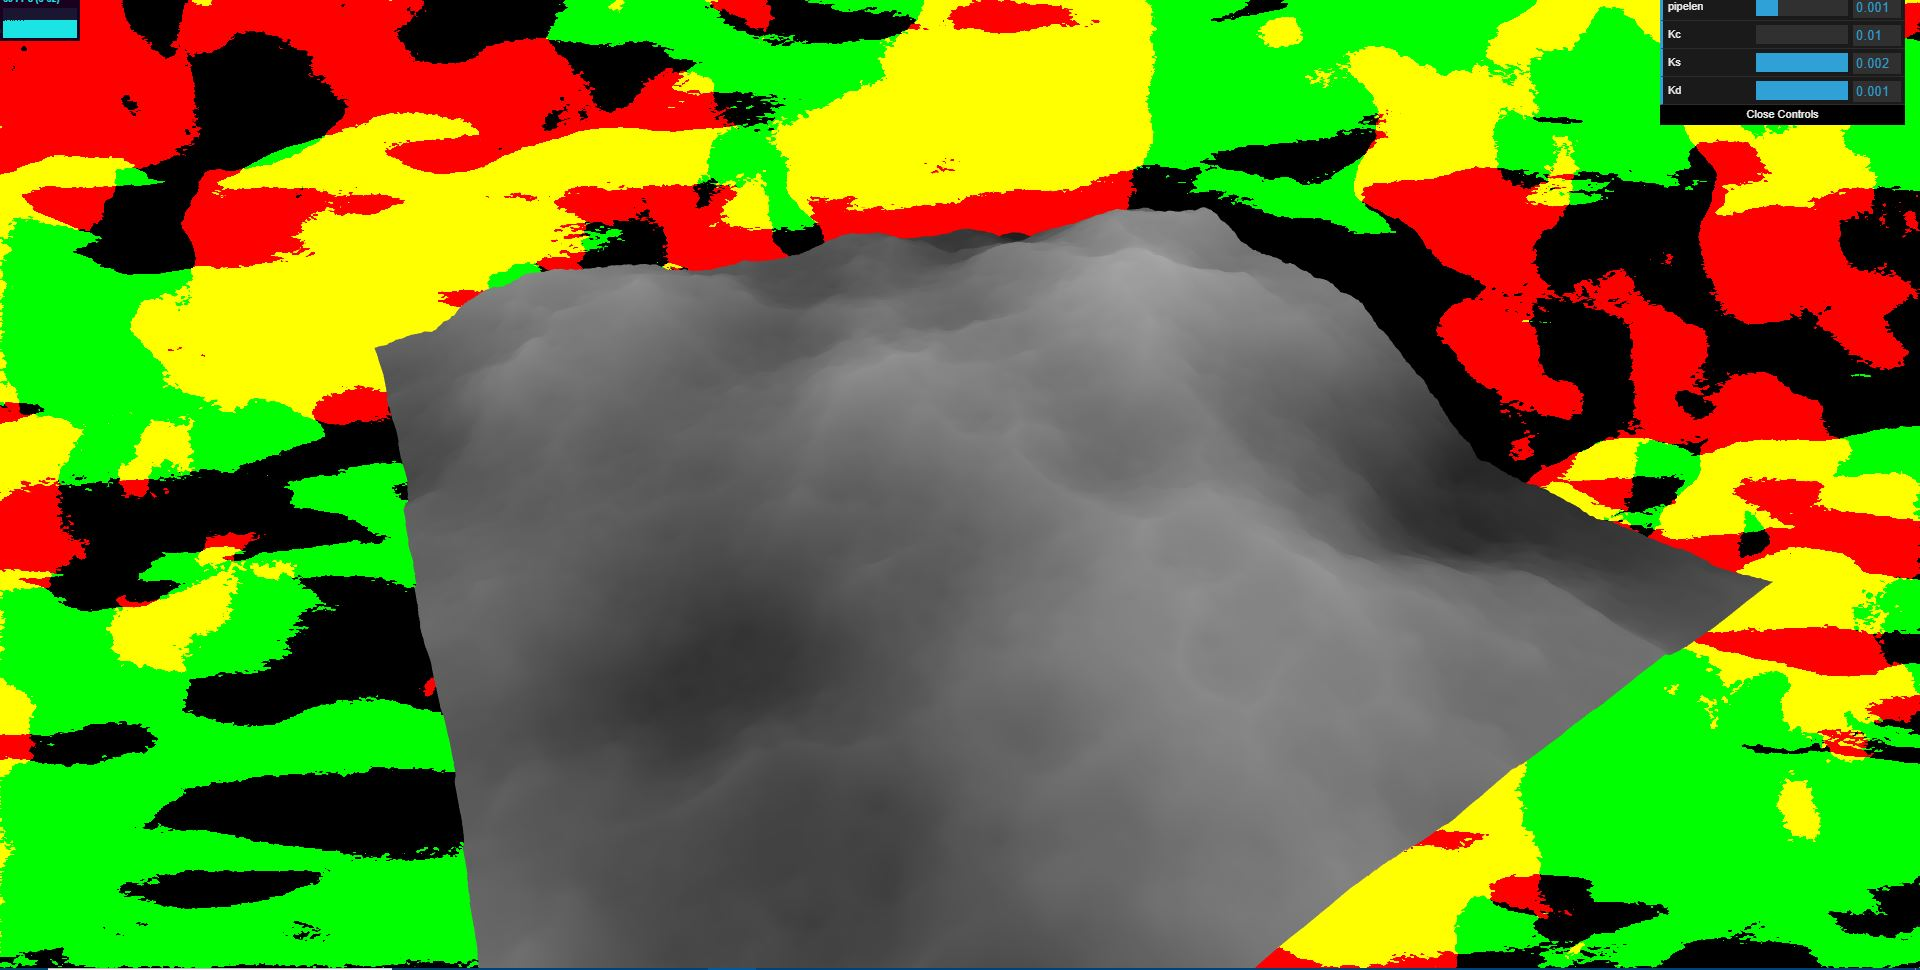
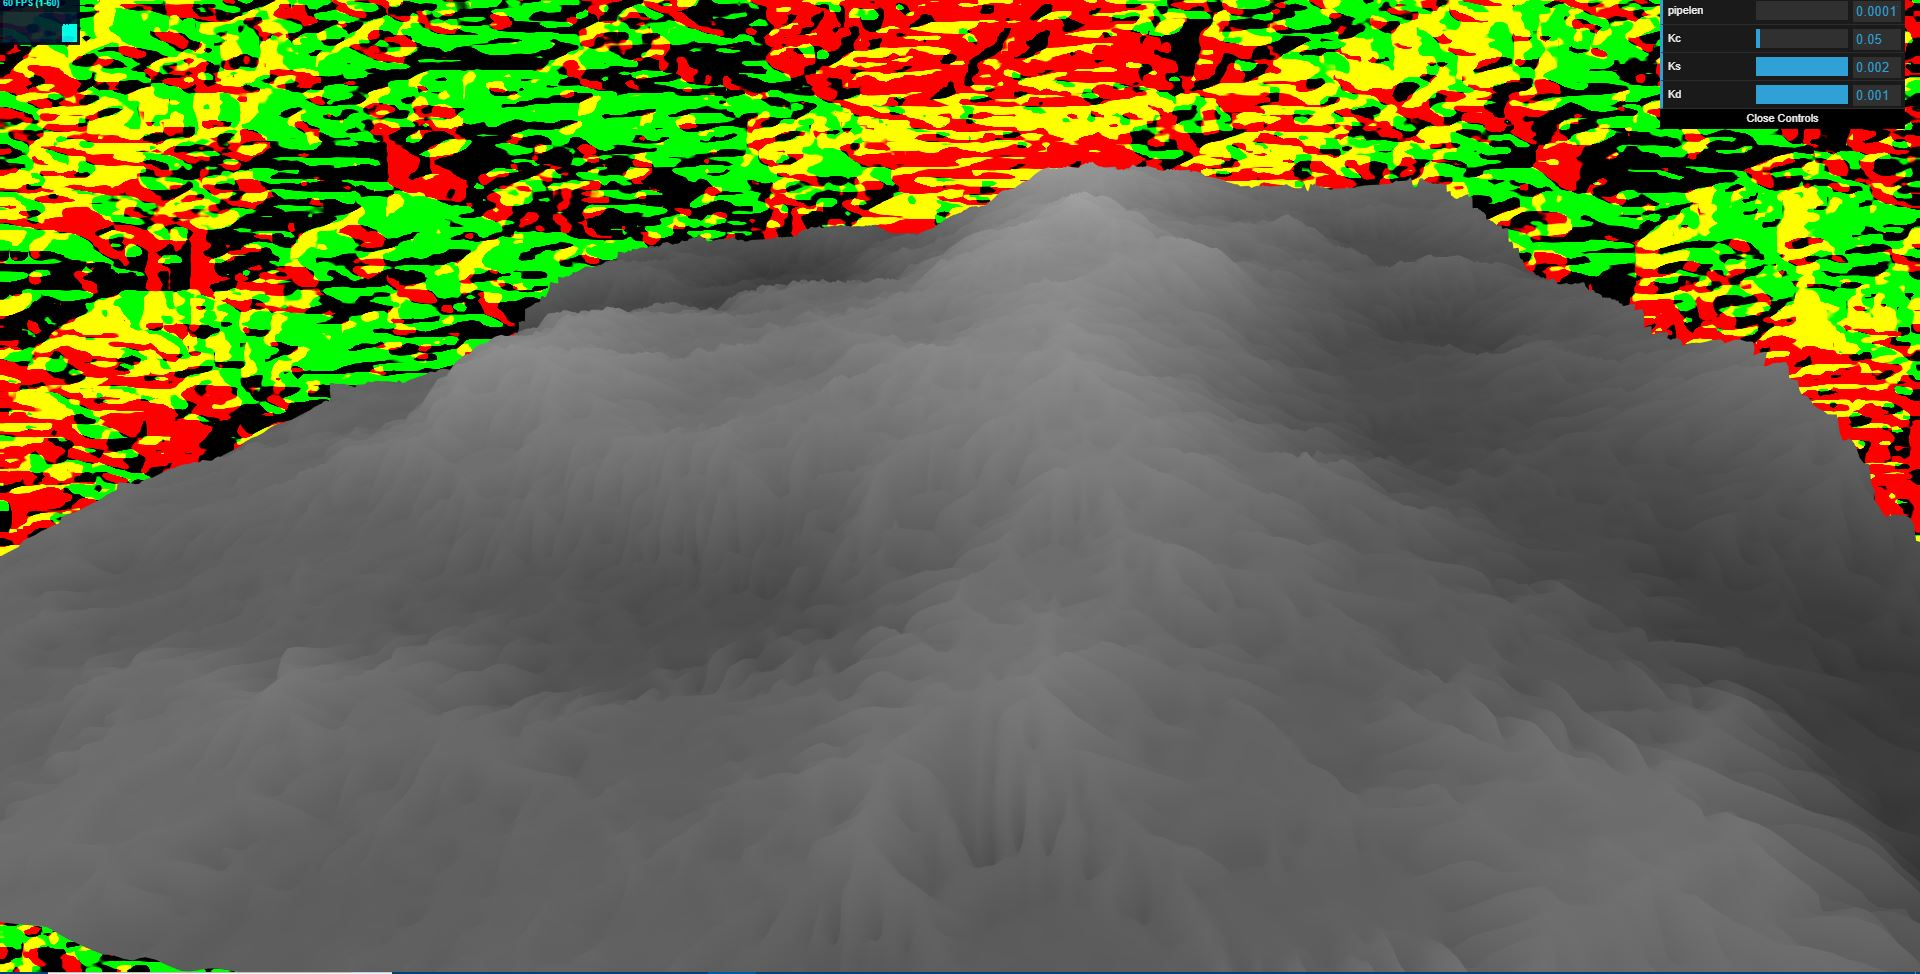
erosion done, minor bug

diff --git a/src/main.ts b/src/main.ts
@@ -11,13 +11,13 @@ import ShaderProgram, {Shader} from './rendering/gl/ShaderProgram';
 // Define an object with application parameters and button callbacks
 // This will be referred to by dat.GUI's functions that add GUI elements.
 
-let simresolution = 1000;
+let simresolution = 300;
 let div = 1/simresolution;
 
 const controls = {
   tesselations: 5,
-    pipelen: div,
-    Kc : 0.01,
+    pipelen: div/20,
+    Kc : 0.05,
     Ks : 0.002,
     Kd : 0.001,
 
@@ -85,7 +85,12 @@ function Render2Texture(renderer:OpenGLRenderer, gl:WebGL2RenderingContext,camer
 function SimulatePerStep(renderer:OpenGLRenderer,
                          gl:WebGL2RenderingContext,
                          camera:Camera,
-                         shader:ShaderProgram,waterhight:ShaderProgram,sedi:ShaderProgram,advect:ShaderProgram,rains:ShaderProgram) {
+                         shader:ShaderProgram,
+                         waterhight:ShaderProgram,
+                         sedi:ShaderProgram,
+                         advect:ShaderProgram,
+                         rains:ShaderProgram,
+                         eva:ShaderProgram) {
 
 
     //////////////////////////////////////////////////////////////////
@@ -374,6 +379,60 @@ function SimulatePerStep(renderer:OpenGLRenderer,
     write_sediment_tex = tmp;
 
     //----------swap sediment map---------
+
+    //////////////////////////////////////////////////////////////////
+    // water level evaporation at end of each iteration
+    // 5---use terrain map to derive new terrain map :
+    // terrain map -----> terrain map
+    //////////////////////////////////////////////////////////////////
+
+    gl.bindRenderbuffer(gl.RENDERBUFFER,render_buffer);
+    gl.renderbufferStorage(gl.RENDERBUFFER,gl.DEPTH_COMPONENT16,
+        simres,simres);
+
+    gl.bindFramebuffer(gl.FRAMEBUFFER,frame_buffer);
+    gl.framebufferTexture2D(gl.FRAMEBUFFER,gl.COLOR_ATTACHMENT0,gl.TEXTURE_2D,write_terrain_tex,0);
+    gl.framebufferRenderbuffer(gl.FRAMEBUFFER,gl.DEPTH_ATTACHMENT,gl.RENDERBUFFER,render_buffer);
+
+    gl.drawBuffers([gl.COLOR_ATTACHMENT0]);
+
+    status = gl.checkFramebufferStatus(gl.FRAMEBUFFER);
+    if (status !== gl.FRAMEBUFFER_COMPLETE) {
+        console.log( "frame buffer status:" + status.toString());
+    }
+
+    gl.bindTexture(gl.TEXTURE_2D,null);
+    gl.bindFramebuffer(gl.FRAMEBUFFER,null);
+    gl.bindRenderbuffer(gl.RENDERBUFFER,null);
+
+    gl.viewport(0,0,simres,simres);
+    gl.bindFramebuffer(gl.FRAMEBUFFER,frame_buffer);
+
+    renderer.clear();
+    eva.use();
+
+    gl.activeTexture(gl.TEXTURE0);
+    gl.bindTexture(gl.TEXTURE_2D,read_terrain_tex);
+    let readterrainUnife = gl.getUniformLocation(eva.prog,"terrain");
+    gl.uniform1i(readterrainUnife,0);
+
+    renderer.render(camera,eva,[square]);
+    gl.bindFramebuffer(gl.FRAMEBUFFER,null);
+
+    //////////////////////////////////////////////////////////////////
+    // water level evaporation at end of each iteration
+    // 5---use terrain map to derive new terrain map :
+    // terrain map -----> terrain map
+    //////////////////////////////////////////////////////////////////
+
+    //---------------swap terrain mao----------------------------
+
+    tmp = read_terrain_tex;
+    read_terrain_tex = write_terrain_tex;
+    write_terrain_tex = tmp;
+
+    //---------------swap terrain mao----------------------------
+
 }
 
 
@@ -471,13 +530,18 @@ function setupFramebufferandtextures(gl:WebGL2RenderingContext) {
 
 
 function SimulationStep(curstep:number,
-                        flow:ShaderProgram, waterhight : ShaderProgram, sediment : ShaderProgram, advect:ShaderProgram,rains:ShaderProgram,
+                        flow:ShaderProgram,
+                        waterhight : ShaderProgram,
+                        sediment : ShaderProgram,
+                        advect:ShaderProgram,
+                        rains:ShaderProgram,
+                        evapo:ShaderProgram,
                         renderer:OpenGLRenderer, 
                         gl:WebGL2RenderingContext,camera:Camera){
     if(curstep>num_simsteps) return true;
     else{
         SimulatePerStep(renderer,
-            gl,camera,flow,waterhight,sediment,advect,rains);
+            gl,camera,flow,waterhight,sediment,advect,rains,evapo);
     }
     return false;
 }
@@ -519,7 +583,7 @@ function main() {
 
   // Initial call to load scene
   loadScene();
-  num_simsteps = 17000;
+  num_simsteps = 4000;
 
   const camera = new Camera(vec3.fromValues(0, 50, -60), vec3.fromValues(0, 0, 0));
 
@@ -569,7 +633,14 @@ function main() {
         new Shader(gl.FRAGMENT_SHADER, require('./shaders/rain-frag.glsl')),
     ]);
 
-  Render2Texture(renderer,gl,camera,noiseterrain,read_terrain_tex);
+
+    const evaporation = new ShaderProgram([
+        new Shader(gl.VERTEX_SHADER, require('./shaders/eva-vert.glsl')),
+        new Shader(gl.FRAGMENT_SHADER, require('./shaders/eva-frag.glsl')),
+    ]);
+
+
+    Render2Texture(renderer,gl,camera,noiseterrain,read_terrain_tex);
 
 
   let cnt = 0;
@@ -601,8 +672,8 @@ function main() {
     stats.begin();
 
     if(t%1==0){
-        for(let i = 0;i<8;i++) {
-            SimulationStep(cnt, flow, waterhight, sediment, sediadvect,rains, renderer, gl, camera);
+        for(let i = 0;i<10;i++) {
+            SimulationStep(cnt, flow, waterhight, sediment, sediadvect,rains,evaporation, renderer, gl, camera);
             cnt++;
             console.log(cnt);
         }
